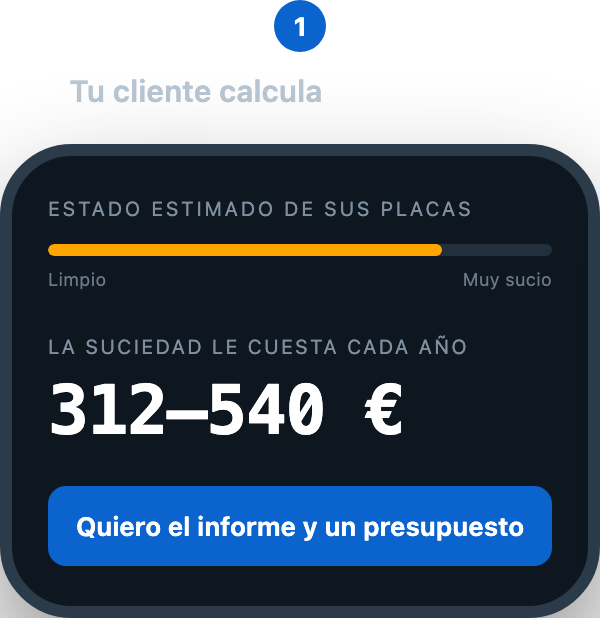
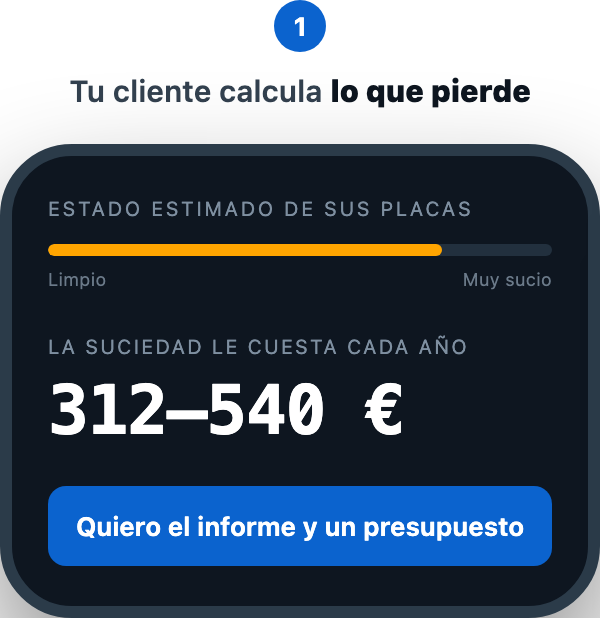
Reordenar la hero: animación entre el titular y el subtítulo, sin caja propia
Nuevo orden: badge → titular → animación (las dos tarjetas) →
subtítulo → bullets → CTA. Antes la animación iba al final, después
de todo el texto.

Se quita la caja oscura con degradado que envolvía las tarjetas: ya
no flotan sobre un panel azul aparte, sino directamente sobre el
fondo de la propia sección hero. Esto obligó a recolorear las
etiquetas "Tu cliente calcula..." / "Tú recibes..." horneadas en
cada tarjeta (estaban en gris claro/blanco, pensadas para un fondo
oscuro, y quedaban casi invisibles sobre el fondo claro de la
página) — ahora en tonos oscuros (#33414F / #0E1620), legibles.

También se retiman los retardos de la animación de entrada para que
seguir el nuevo orden visual de arriba a abajo, y se ajusta el punto
de la container query (ya no hay padding propio que compensar).

Changed region(s): [[0.12, 0.123, 0.9, 0.1845]]

diff --git a/public/index.html b/public/index.html
@@ -284,20 +284,21 @@
       gap: 48px;
     }
 
-    .hero-text {
+    .hero-text-top,
+    .hero-text-bottom {
       max-width: 680px;
       text-align: center;
     }
 
-    .hero-text h1 {
-      margin-bottom: 24px;
+    .hero-text-top h1 {
+      margin-bottom: 0;
     }
 
-    .hero-text .sub {
+    .hero-text-bottom .sub {
       margin: 0 auto;
     }
 
-    .hero-text .features {
+    .hero-text-bottom .features {
       display: flex;
       flex-direction: column;
       align-items: flex-start;
@@ -307,20 +308,15 @@
       text-align: left;
     }
 
-    .hero-text .btn {
+    .hero-text-bottom .btn {
       margin-top: 24px;
     }
 
+    /* Sin caja ni degradado propios: las tarjetas flotan directamente sobre
+       el fondo de la sección hero, no sobre un panel azul aparte. */
     .hero-image {
       width: 100%;
-      max-width: 980px;
-      border-radius: 12px;
-      overflow: hidden;
-      box-shadow: 0 20px 40px rgba(0, 102, 178, 0.2);
-      background:
-        radial-gradient(circle at 80% 6%, rgba(30, 136, 229, 0.35) 0%, rgba(30, 136, 229, 0) 60%),
-        linear-gradient(160deg, #0E1620 0%, #16222f 100%);
-      padding: 40px 36px;
+      max-width: 820px;
       container-type: inline-size;
     }
 
@@ -362,7 +358,7 @@
       line-height: 1.35;
     }
 
-    @container (max-width: 700px) {
+    @container (max-width: 640px) {
       .hero-visual {
         flex-direction: column;
         align-items: center;
@@ -699,19 +695,19 @@
       from { opacity: 0; transform: translateY(14px); }
       to { opacity: 1; transform: translateY(0); }
     }
-    .hero-text .badge,
-    .hero-text h1,
-    .hero-text .sub,
-    .hero-text .features,
-    .hero-text .btn {
+    .hero-text-top .badge,
+    .hero-text-top h1,
+    .hero-text-bottom .sub,
+    .hero-text-bottom .features,
+    .hero-text-bottom .btn {
       opacity: 0;
       animation: heroIn 0.55s ease forwards;
     }
-    .hero-text .badge { animation-delay: 0.05s; }
-    .hero-text h1 { animation-delay: 0.12s; }
-    .hero-text .sub { animation-delay: 0.22s; }
-    .hero-text .features { animation-delay: 0.32s; }
-    .hero-text .btn { animation-delay: 0.42s; }
+    .hero-text-top .badge { animation-delay: 0.04s; }
+    .hero-text-top h1 { animation-delay: 0.1s; }
+    .hero-text-bottom .sub { animation-delay: 0.46s; }
+    .hero-text-bottom .features { animation-delay: 0.54s; }
+    .hero-text-bottom .btn { animation-delay: 0.62s; }
 
     /* Las dos tarjetas entran por separado, cada una desde su lado, y la
        flecha se desvanece entre medias. Una vez asentadas, cada tarjeta
@@ -740,16 +736,16 @@
     .hv-card {
       opacity: 0;
       animation: heroCardInLeft 0.6s ease forwards;
-      animation-delay: 0.3s;
+      animation-delay: 0.18s;
     }
     .hv-card-2 {
       animation-name: heroCardInRight;
-      animation-delay: 0.5s;
+      animation-delay: 0.34s;
     }
     .hero-arrow {
       opacity: 0;
       animation: heroArrowIn 0.5s ease forwards;
-      animation-delay: 0.55s;
+      animation-delay: 0.3s;
     }
     .hv-float {
       animation: hvFloat 4.5s ease-in-out infinite;
@@ -762,11 +758,11 @@
       animation: hvDashFlow 1s linear infinite;
     }
     @media (prefers-reduced-motion: reduce) {
-      .hero-text .badge,
-      .hero-text h1,
-      .hero-text .sub,
-      .hero-text .features,
-      .hero-text .btn,
+      .hero-text-top .badge,
+      .hero-text-top h1,
+      .hero-text-bottom .sub,
+      .hero-text-bottom .features,
+      .hero-text-bottom .btn,
       .hv-card,
       .hero-arrow {
         opacity: 1;
@@ -828,17 +824,9 @@
   <section class="hero">
     <div class="wrap">
       <div class="hero-content">
-        <div class="hero-text">
+        <div class="hero-text-top">
           <div class="badge">Para empresas de limpieza y mantenimiento solar</div>
           <h1>La calculadora que hace que tus clientes te llamen a ti</h1>
-          <p class="sub">Tus clientes calculan cuánto pierden por placas sucias — a veces más de 500 € al año. Te escriben ya convencidos, sin que muevas un dedo.</p>
-          <ul class="features">
-            <li>Instalación en 5 minutos</li>
-            <li>Funciona en cualquier web</li>
-            <li>Contactos con intención real de compra</li>
-            <li>Sin permanencia, cancela cuando quieras</li>
-          </ul>
-          <a href="#pricing" class="btn btn-primary">→ Ver precios y activar</a>
         </div>
         <div class="hero-image">
           <div class="hero-visual">
@@ -868,6 +856,16 @@
               >
             </div>
           </div>
+        </div>
+        <div class="hero-text-bottom">
+          <p class="sub">Tus clientes calculan cuánto pierden por placas sucias — a veces más de 500 € al año. Te escriben ya convencidos, sin que muevas un dedo.</p>
+          <ul class="features">
+            <li>Instalación en 5 minutos</li>
+            <li>Funciona en cualquier web</li>
+            <li>Contactos con intención real de compra</li>
+            <li>Sin permanencia, cancela cuando quieras</li>
+          </ul>
+          <a href="#pricing" class="btn btn-primary">→ Ver precios y activar</a>
         </div>
       </div>
     </div>
